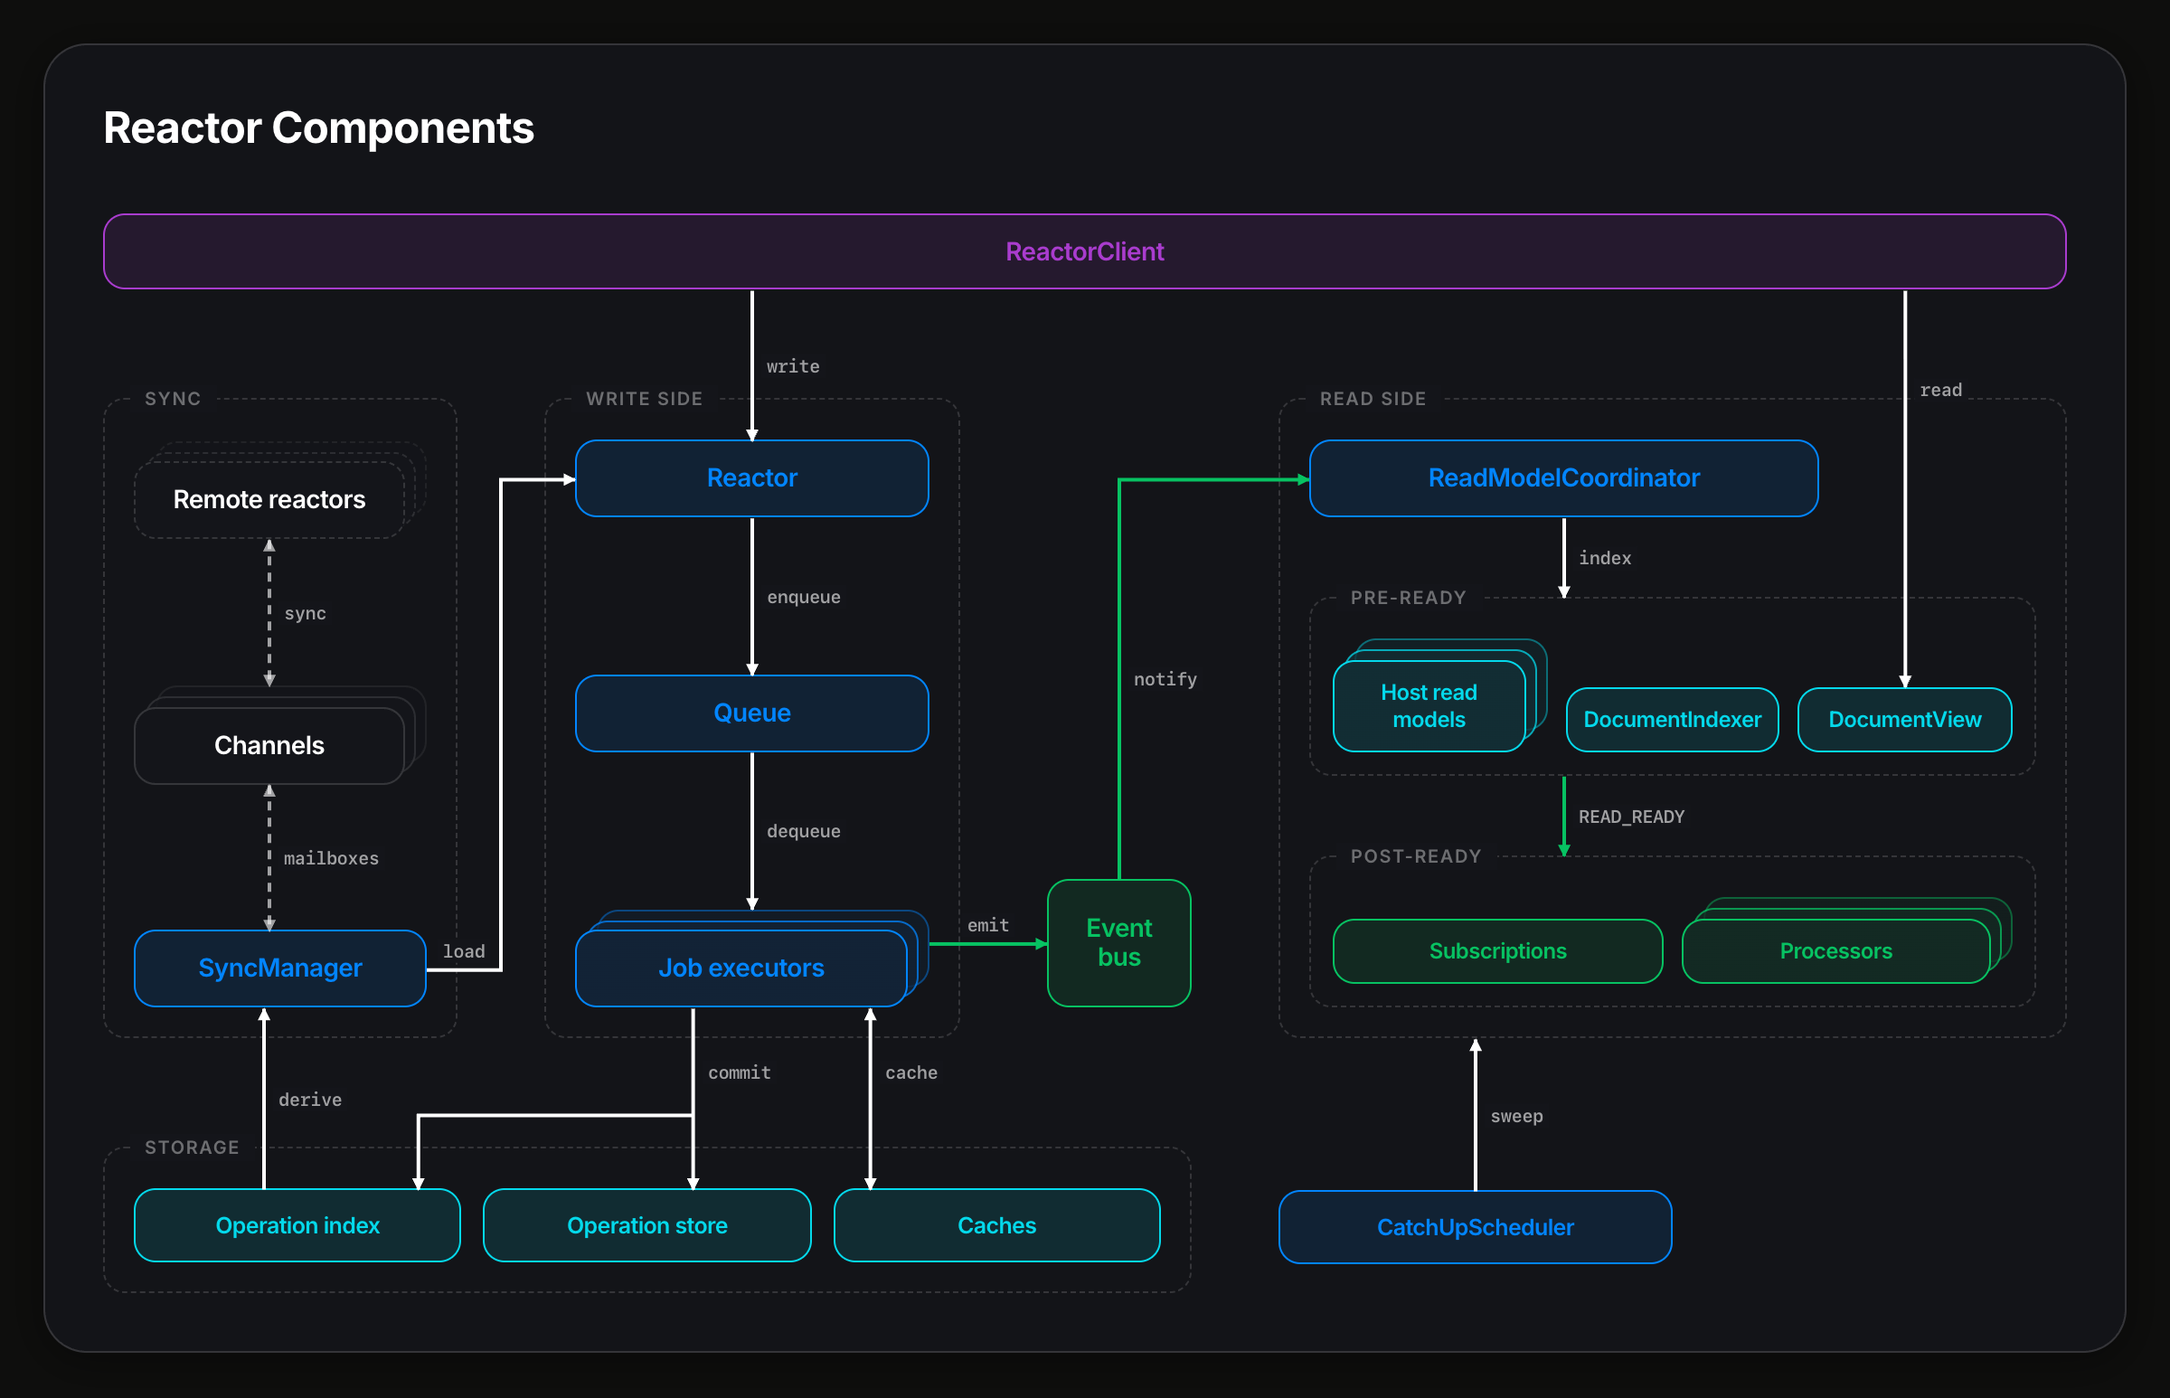
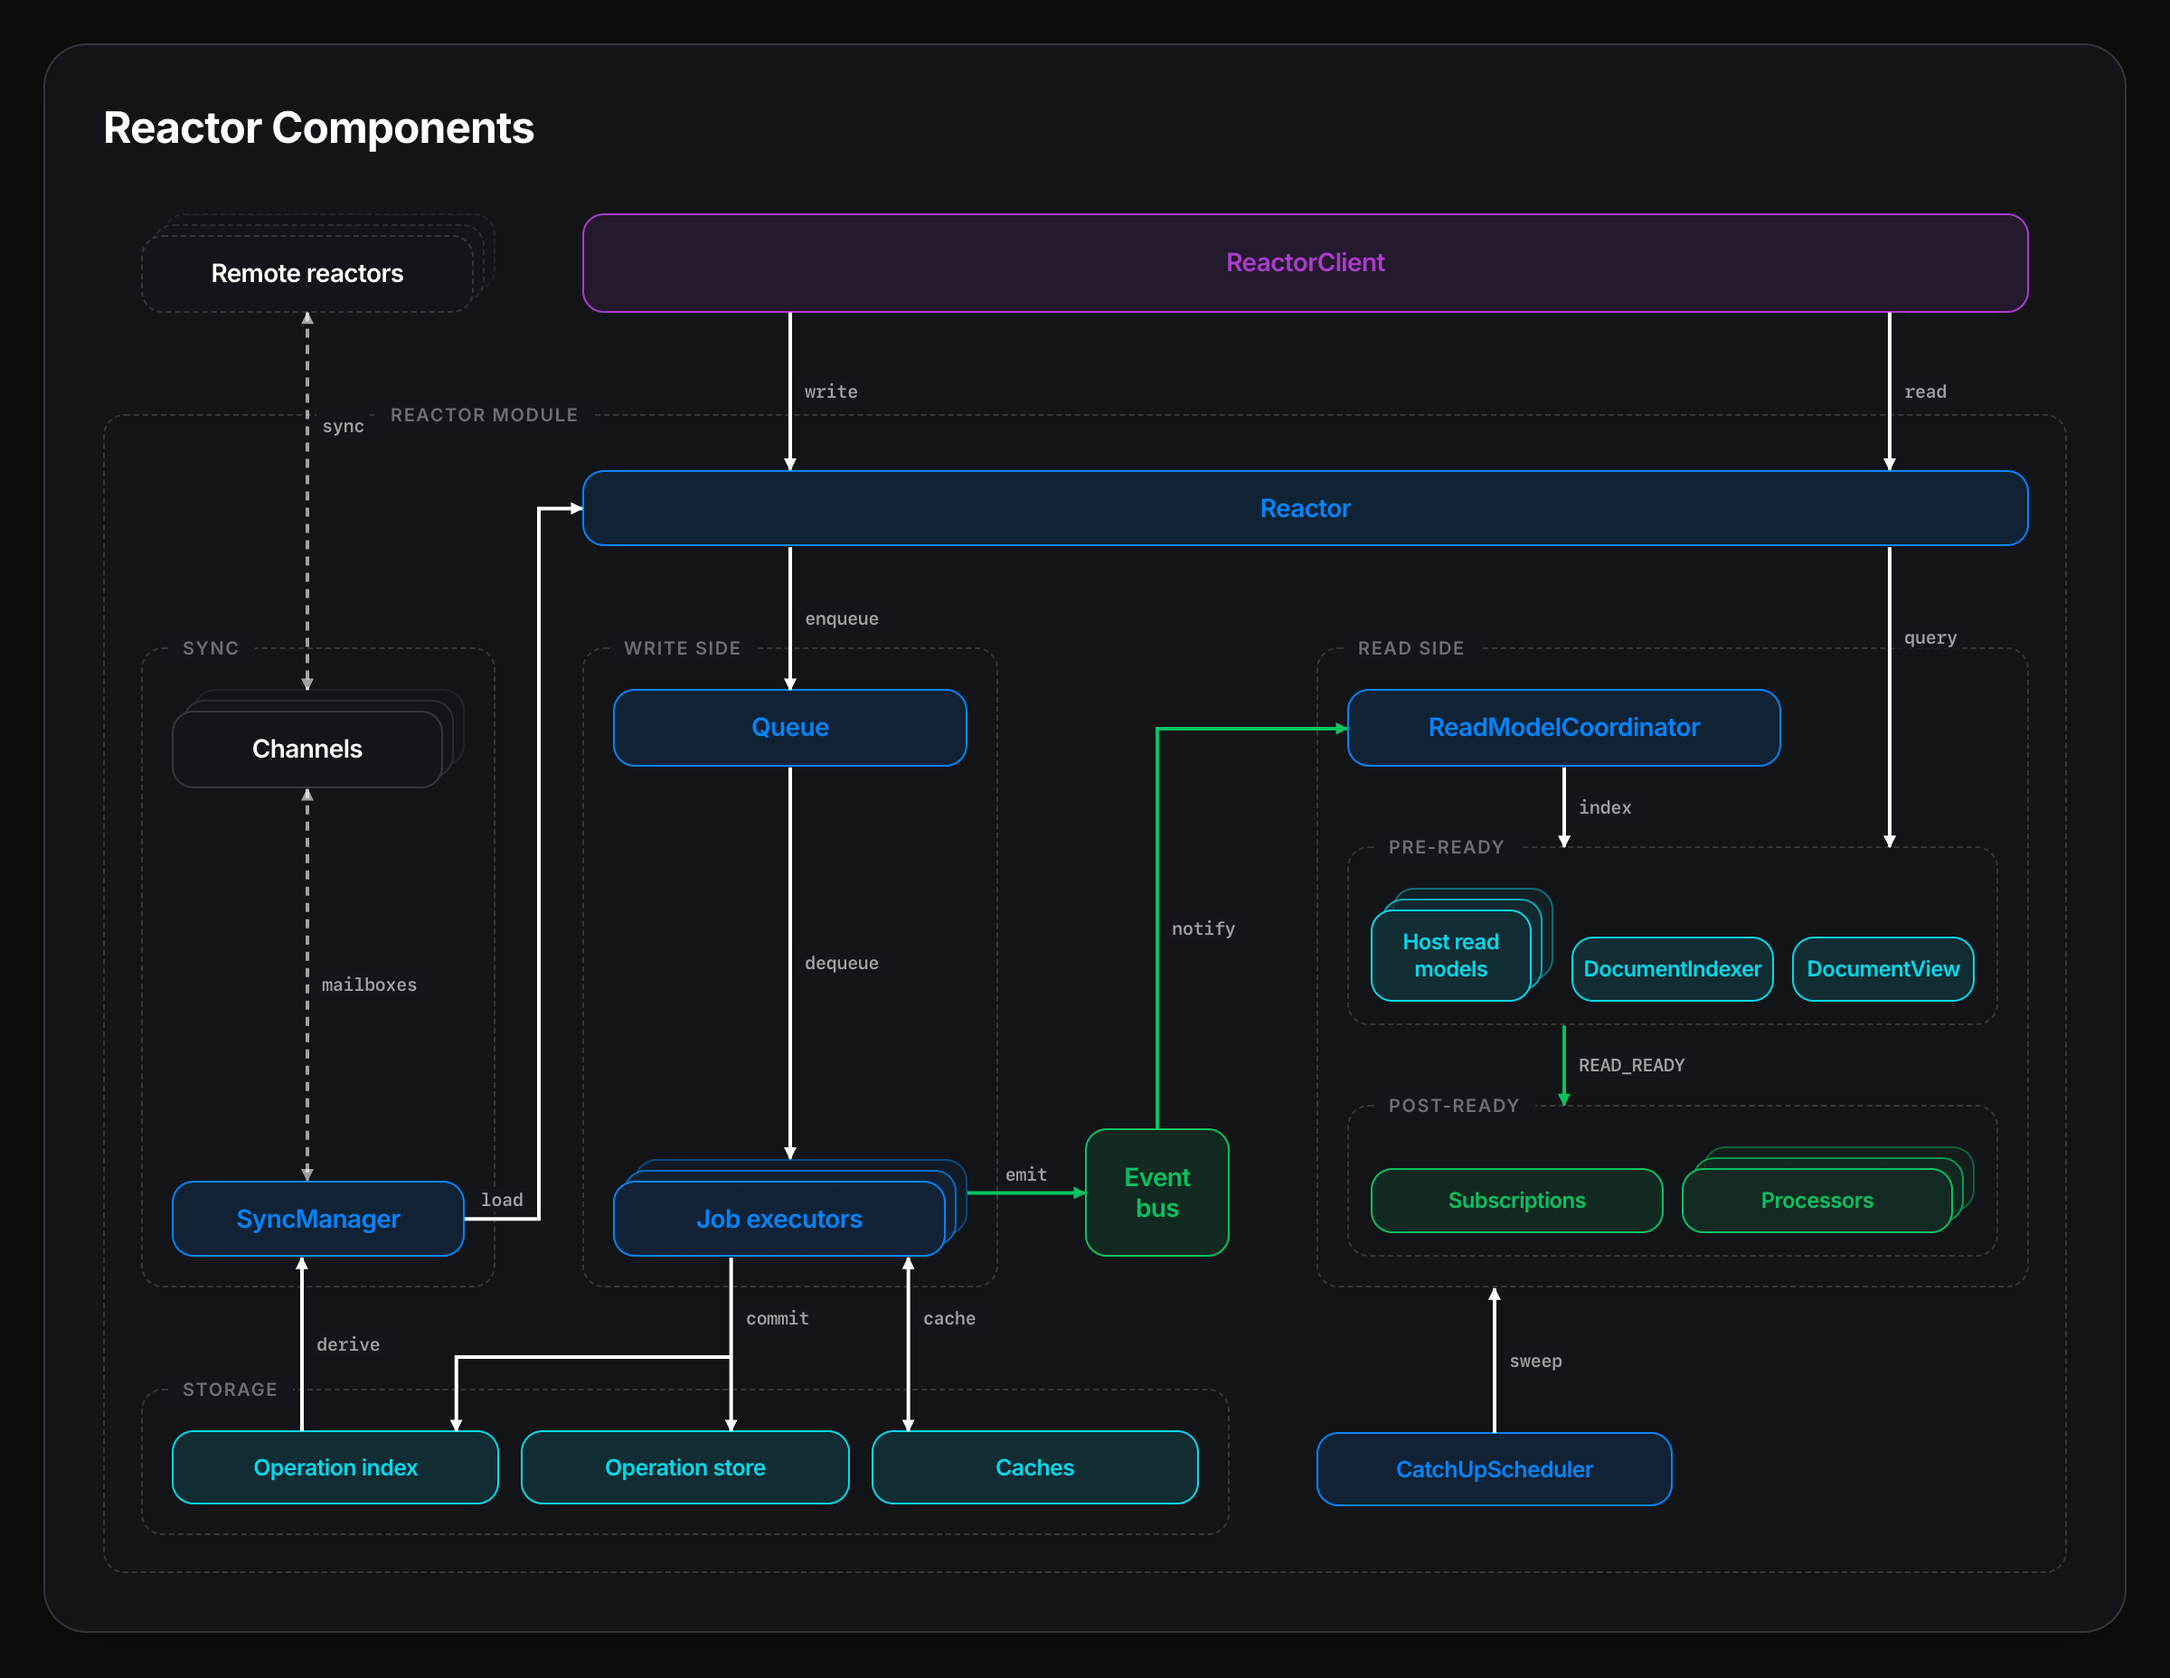
reactor components: Reactor as a facade bar inside the module frame
ReactorClient's writes and reads both go through the Reactor class
(execute and load enqueue jobs; get and find delegate to the document
view and indexer), so Reactor becomes a bar spanning the write and read
sides instead of a box in the write column. A REACTOR MODULE frame
wraps everything the built module owns; ReactorClient and remote
reactors sit outside it. SyncManager's load edge lands on the bar,
where load jobs enter.

diff --git a/pages/reactor-components.html b/pages/reactor-components.html
@@ -130,22 +130,21 @@
     svg.wires rect.label-bg { fill: var(--bg-surface); }
 
     /* ── Layout ── */
-    .diagram {
-      position: relative;
+    .cols {
       display: grid;
       grid-template-columns: 196px 230px 80px 1fr;
       column-gap: 48px;
-      row-gap: 60px;
     }
+    .top-row { padding: 0 21px; margin-bottom: 56px; }
+    .top-row #client { grid-column: 2 / -1; }
+    .module { padding: 30px 20px 20px; }
+    .module > .cols { row-gap: 56px; }
+    .bar { grid-column: 2 / -1; }
     .col-stack {
       display: flex;
       flex-direction: column;
       justify-content: space-between;
       gap: 44px;
-    }
-    .client-row {
-      grid-column: 1 / -1;
-      display: grid;
     }
     .bus {
       grid-column: 3;
@@ -160,12 +159,7 @@
     .phase-group .row.two { grid-template-columns: 1fr 1fr; }
     .phase-group .box { padding: 10px 6px; }
     .phase-group .box-title { font-size: 12px; }
-    .bottom-row {
-      grid-column: 1 / -1;
-      display: grid;
-      grid-template-columns: 196px 230px 80px 1fr;
-      column-gap: 48px;
-    }
+    .bottom-row { grid-column: 1 / -1; }
     .storage {
       grid-column: 1 / 4;
       display: grid;
@@ -188,10 +182,15 @@
     Line numbers as of main a30562aeca. Stacks (.fanout) mark components with many instances at runtime.
 
     ReactorClient ............ client/reactor-client.ts:190 (signer, read gate :198, :1806); built by core/reactor-client-builder.ts:287
-    write .................... reactor-client.ts:1040 (reactor.execute), :860 (executeBatch), :1476 (loadBatch)
-    read ..................... reactor-client.ts:331-343 (get), :641-656 (find), :1706-1758 (subscribe); gated in the client, Reactor.get core/reactor.ts:226 is not
-    Reactor .................. core/reactor.ts:83
-    enqueue .................. core/reactor.ts:710, :773; queue/queue.ts:154
+    Reactor module ........... core/reactor-builder.ts:1445-1482 (InProcessReactorModule: queue, executorManager, eventBus, operationStore,
+                               writeCache, operationIndex, documentView, documentIndexer, readModelCoordinator, processorManager,
+                               subscriptionManager, syncModule, catchUp, reactor); ReactorClient and remotes sit outside it
+    Reactor (facade bar) ..... core/reactor.ts:83 (IReactor over queue, jobTracker, documentView, documentIndexer)
+    write .................... reactor-client.ts:1040 (this.reactor.execute), :860 (executeBatch), :1476 (loadBatch)
+    read ..................... reactor-client.ts:337 (this.reactor.getByIdOrSlug), :648 (this.reactor.find); gated in the client (:1806).
+                               Not drawn: the client also reads documentView/documentIndexer directly for slugs and relationships (:356, :499)
+    enqueue .................. core/reactor.ts:659-710 (execute → queue.enqueue), :717-773 (load → queue.enqueue)
+    query .................... core/reactor.ts:234, :277 (documentView), :291, :310 (documentIndexer)
     Queue .................... queue/queue.ts:22
     dequeue .................. executor/simple-job-executor-manager.ts:88, :139
     Job executors [stack] .... executor/simple-job-executor-manager.ts:82 (one SimpleJobExecutor per i < numExecutors); core/reactor-builder.ts:1089, :1161
@@ -217,7 +216,7 @@
     Channels [stack] ......... one per Remote (sync-manager.ts:312); gql-req-channel.ts:160, gql-res-channel.ts:23, local-channel.ts:73
     mailboxes ................ sync/interfaces.ts:37-102 (inbox, outbox, deadLetter); sync-manager.ts:2116-2118
     SyncManager .............. sync/sync-manager.ts; sync/sync-builder.ts:131 (reactor-builder.ts:1402, :1415)
-      load ................... sync-manager.ts:2863 (reactor.load), :3064 (reactor.loadBatch)
+      load ................... sync-manager.ts:2863 (reactor.load), :3064 (reactor.loadBatch); load jobs are queued by Reactor (core/reactor.ts:745, :773)
       derive ................. sync-manager.ts:3463-3491 (operationIndex.find ≤ watermark.settledThrough)
     Operation index .......... cache/kysely-operation-index.ts:158
     Operation store .......... storage/kysely/store.ts:46
@@ -231,59 +230,65 @@
       <h2 class="card-title">Reactor Components</h2>
 
       <div class="card-body">
-        <div class="diagram" id="diagram">
+        <div id="diagram" style="position:relative">
           <svg class="wires" id="wires"></svg>
 
-          <div class="client-row">
+          <div class="cols top-row">
+            <div class="fanout dashed" id="remote"><div class="box variant"><div class="box-title">Remote reactors</div></div></div>
             <div class="box accent-purple" id="client"><div class="box-title">ReactorClient</div></div>
           </div>
 
-          <div class="group col-stack" id="syncgroup" style="grid-column:1">
-            <span class="group-label">Sync</span>
-            <div class="fanout dashed" id="remote"><div class="box variant"><div class="box-title">Remote reactors</div></div></div>
-            <div class="fanout" id="channels"><div class="box"><div class="box-title">Channels</div></div></div>
-            <div class="box accent-blue" id="sync"><div class="box-title">SyncManager</div></div>
-          </div>
+          <div class="group module" id="module">
+            <span class="group-label" style="left:150px">Reactor module</span>
+            <div class="cols">
+              <div class="box accent-blue bar" id="reactor"><div class="box-title">Reactor</div></div>
 
-          <div class="group col-stack" style="grid-column:2">
-            <span class="group-label">Write side</span>
-            <div class="box accent-blue" id="reactor"><div class="box-title">Reactor</div></div>
-            <div class="box accent-blue" id="queue"><div class="box-title">Queue</div></div>
-            <div class="fanout accent-blue" id="executor"><div class="box accent-blue"><div class="box-title">Job executors</div></div></div>
-          </div>
+              <div class="group col-stack" id="syncgroup" style="grid-column:1">
+                <span class="group-label">Sync</span>
+                <div class="fanout" id="channels"><div class="box"><div class="box-title">Channels</div></div></div>
+                <div class="box accent-blue" id="sync"><div class="box-title">SyncManager</div></div>
+              </div>
 
-          <div class="box accent-green bus" id="bus"><div class="box-title">Event<br>bus</div></div>
+              <div class="group col-stack" style="grid-column:2">
+                <span class="group-label">Write side</span>
+                <div class="box accent-blue" id="queue"><div class="box-title">Queue</div></div>
+                <div class="fanout accent-blue" id="executor"><div class="box accent-blue"><div class="box-title">Job executors</div></div></div>
+              </div>
 
-          <div class="group col-stack" id="readside" style="grid-column:4">
-            <span class="group-label">Read side</span>
-            <div class="coord-row">
-              <div class="box accent-blue" id="coordinator"><div class="box-title">ReadModelCoordinator</div></div>
-            </div>
-            <div class="group phase-group" id="pre">
-              <span class="group-label">pre-ready</span>
-              <div class="row three">
-                <div class="fanout accent-cyan" id="hostrm"><div class="box accent-cyan"><div class="box-title">Host read models</div></div></div>
-                <div class="box accent-cyan" id="indexer"><div class="box-title">DocumentIndexer</div></div>
-                <div class="box accent-cyan" id="docview"><div class="box-title">DocumentView</div></div>
+              <div class="box accent-green bus" id="bus"><div class="box-title">Event<br>bus</div></div>
+
+              <div class="group col-stack" id="readside" style="grid-column:4">
+                <span class="group-label">Read side</span>
+                <div class="coord-row">
+                  <div class="box accent-blue" id="coordinator"><div class="box-title">ReadModelCoordinator</div></div>
+                </div>
+                <div class="group phase-group" id="pre">
+                  <span class="group-label">pre-ready</span>
+                  <div class="row three">
+                    <div class="fanout accent-cyan" id="hostrm"><div class="box accent-cyan"><div class="box-title">Host read models</div></div></div>
+                    <div class="box accent-cyan" id="indexer"><div class="box-title">DocumentIndexer</div></div>
+                    <div class="box accent-cyan" id="docview"><div class="box-title">DocumentView</div></div>
+                  </div>
+                </div>
+                <div class="group phase-group" id="post">
+                  <span class="group-label">post-ready</span>
+                  <div class="row two">
+                    <div class="box accent-green" id="subs"><div class="box-title">Subscriptions</div></div>
+                    <div class="fanout accent-green" id="processors"><div class="box accent-green"><div class="box-title">Processors</div></div></div>
+                  </div>
+                </div>
+              </div>
+
+              <div class="cols bottom-row">
+                <div class="group storage" id="storage">
+                  <span class="group-label">Storage</span>
+                  <div class="box accent-cyan" id="opindex"><div class="box-title">Operation index</div></div>
+                  <div class="box accent-cyan" id="opstore"><div class="box-title">Operation store</div></div>
+                  <div class="box accent-cyan" id="caches"><div class="box-title">Caches</div></div>
+                </div>
+                <div class="box accent-blue catchup" id="catchup"><div class="box-title">CatchUpScheduler</div></div>
               </div>
             </div>
-            <div class="group phase-group" id="post">
-              <span class="group-label">post-ready</span>
-              <div class="row two">
-                <div class="box accent-green" id="subs"><div class="box-title">Subscriptions</div></div>
-                <div class="fanout accent-green" id="processors"><div class="box accent-green"><div class="box-title">Processors</div></div></div>
-              </div>
-            </div>
-          </div>
-
-          <div class="bottom-row">
-            <div class="group storage" id="storage">
-              <span class="group-label">Storage</span>
-              <div class="box accent-cyan" id="opindex"><div class="box-title">Operation index</div></div>
-              <div class="box accent-cyan" id="opstore"><div class="box-title">Operation store</div></div>
-              <div class="box accent-cyan" id="caches"><div class="box-title">Caches</div></div>
-            </div>
-            <div class="box accent-blue catchup" id="catchup"><div class="box-title">CatchUpScheduler</div></div>
           </div>
         </div>
       </div>
@@ -303,21 +308,22 @@
       const c = R('client'), r = R('reactor'), q = R('queue'), e = R('executor');
       const b = R('bus'), co = R('coordinator'), pre = R('pre'), post = R('post'), rs = R('readside');
       const s = R('sync'), ch = R('channels'), rem = R('remote');
-      const oi = R('opindex'), os = R('opstore'), ca = R('caches'), cu = R('catchup'), dv = R('docview');
+      const oi = R('opindex'), os = R('opstore'), ca = R('caches'), cu = R('catchup');
       const st = R('storage');
       const tx = (Math.max(e.l, os.l) + Math.min(e.r, os.r)) / 2;
       const cx = (Math.max(e.l, ca.l) + Math.min(e.r, ca.r)) / 2;
       const barY = st.t - 18, ix = oi.r - 24;
-      const gapL = (s.r + r.l) / 2;
-      const busX = b.cx;
+      const gapL = (s.r + q.l) / 2;
       const dx = oi.l + 72;
+      const qx = q.cx, rx = pre.r - 60;
       return [
-        { cls: 'w-call', pts: [[r.cx, c.b], [r.cx, r.t]], label: 'write', seg: 0 },
-        { cls: 'w-call', pts: [[dv.cx, c.b], [dv.cx, dv.t]], label: 'read', seg: 0, at: 0.25 },
-        { cls: 'w-call', pts: [[r.cx, r.b], [r.cx, q.t]], label: 'enqueue', seg: 0 },
-        { cls: 'w-call', pts: [[r.cx, q.b], [r.cx, e.t - F]], label: 'dequeue', seg: 0 },
+        { cls: 'w-call', pts: [[qx, c.b], [qx, r.t]], label: 'write', seg: 0 },
+        { cls: 'w-call', pts: [[rx, c.b], [rx, r.t]], label: 'read', seg: 0 },
+        { cls: 'w-call', pts: [[qx, r.b], [qx, q.t]], label: 'enqueue', seg: 0 },
+        { cls: 'w-call', pts: [[rx, r.b], [rx, pre.t]], label: 'query', seg: 0, at: 0.3 },
+        { cls: 'w-call', pts: [[qx, q.b], [qx, e.t - F]], label: 'dequeue', seg: 0 },
         { cls: 'w-event', pts: [[e.r + F, b.cy], [b.l, b.cy]], label: 'emit', seg: 0 },
-        { cls: 'w-event', pts: [[busX, b.t], [busX, co.cy], [co.l, co.cy]], label: 'notify', seg: 0 },
+        { cls: 'w-event', pts: [[b.cx, b.t], [b.cx, co.cy], [co.l, co.cy]], label: 'notify', seg: 0 },
         { cls: 'w-call', pts: [[co.cx, co.b], [co.cx, pre.t]], label: 'index', seg: 0 },
         { cls: 'w-event', pts: [[co.cx, pre.b], [co.cx, post.t]], label: 'READ_READY', seg: 0 },
         { cls: 'w-call', pts: [[tx, e.b], [tx, os.t]], label: 'commit', seg: 0, at: 0.35 },
@@ -326,7 +332,7 @@
         { cls: 'w-call', pts: [[s.r, s.cy], [gapL, s.cy], [gapL, r.cy], [r.l, r.cy]], label: 'load', seg: 0 },
         { cls: 'w-call', pts: [[dx, oi.t], [dx, s.b]], label: 'derive', seg: 0 },
         { cls: 'w-dash', both: true, pts: [[ch.cx, ch.b], [ch.cx, s.t]], label: 'mailboxes', seg: 0 },
-        { cls: 'w-dash', both: true, pts: [[rem.cx, rem.b], [rem.cx, ch.t - F]], label: 'sync', seg: 0 },
+        { cls: 'w-dash', both: true, pts: [[rem.cx, rem.b], [rem.cx, ch.t - F]], label: 'sync', seg: 0, at: 0.3 },
         { cls: 'w-call', pts: [[cu.cx, cu.t], [cu.cx, rs.b]], label: 'sweep', seg: 0 },
       ];
     }
